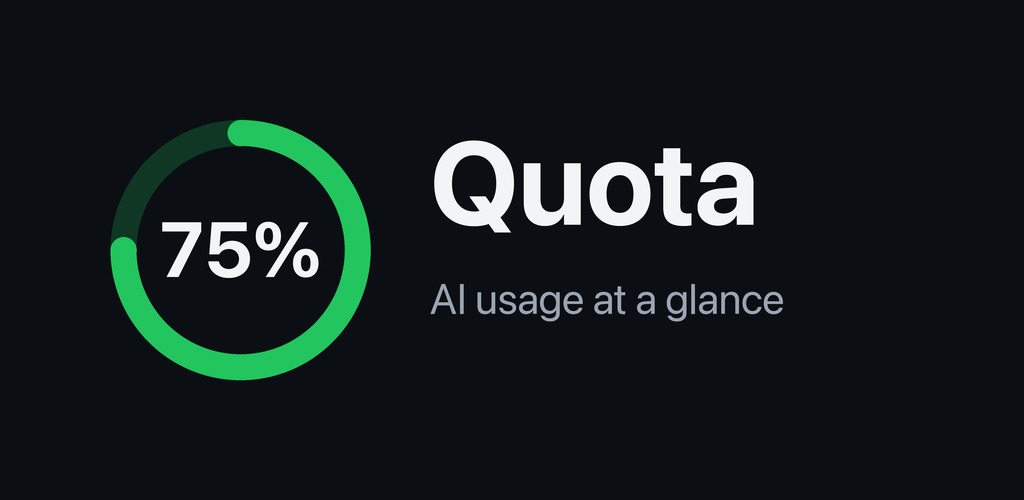
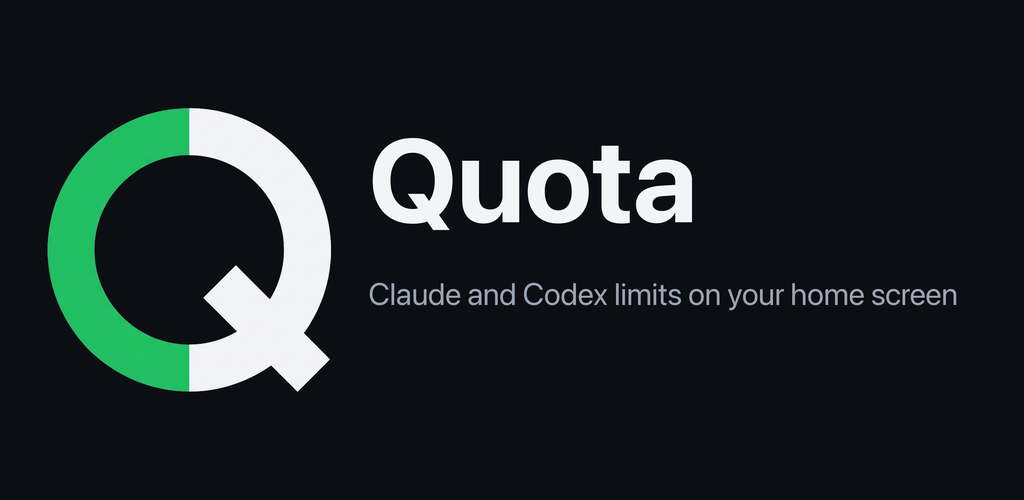
feat(android): the feature graphic carries the battery-Q, not the old ring
The icon became the battery-Q crop in 77a5694, but `feature_graphic()` kept drawing its
own three-quarter ring with a "75%" in it — a second, slightly different mark, which is
the one thing this script's own docstring forbids. The store page showed one Q and the
launcher another.

It now composites the same `mark()` crop every other asset uses, so `ring()`, `mix()`,
`_rgb()` and the sweep constants are gone with it; nothing in this file draws a Q any
more. The tagline says what `short-description.txt` says, "Claude and Codex limits on
your home screen", and its size is fitted to the column rather than guessed — the first
attempt guessed and ran the sentence off the right edge of the canvas.

Regenerated: `icon.png` and every `mipmap-*` output came back byte-identical, which is
the crop-and-scale promise holding. Only the 1024 x 500 changed.

Changed region(s): [[0.0312, 0.21, 0.9375, 0.78]]

diff --git a/android/scripts/generate-play-assets.py b/android/scripts/generate-play-assets.py
@@ -9,12 +9,13 @@ one thing this script must never do is produce a *second*, slightly different Q.
 
     python3 android/scripts/generate-play-assets.py
 
-The feature graphic is still drawn here, at 4x then downsampled: Pillow has no
-antialiased arc.
+The feature graphic is the same crop again — mark, wordmark, tagline — composed at 4x and
+downsampled, because Pillow's text is only as smooth as the size it is drawn at. It used
+to draw its own three-quarter ring, which is precisely the second Q this file forbids:
+the store page showed one mark and the launcher another.
 """
 from __future__ import annotations
 
-import math
 from pathlib import Path
 
 from PIL import Image, ImageDraw, ImageFont
@@ -25,29 +26,10 @@ RES = ROOT / "app/src/main/res"
 SOURCE = ROOT.parent / "docs/brand/icon-candidates/01-battery-q.png"
 
 BG = "#0B0F14"          # background dark
-OK = "#22C55E"          # severity ok — the ring value
 TEXT = "#F3F4F6"        # text primary dark
 MUTED = "#9AA4B2"       # text secondary dark
 
 SS = 4                  # supersampling factor
-SWEEP = 0.75            # three quarters full, like a healthy quota
-START_DEG = -90.0       # 12 o'clock
-
-
-def _rgb(h: str) -> tuple[int, int, int]:
-    return tuple(int(h[i:i + 2], 16) for i in (1, 3, 5))  # type: ignore[return-value]
-
-
-def mix(bg: str, fg: str, t: float) -> tuple[int, int, int]:
-    """`fg` at `t` opacity over opaque `bg`, composited by hand.
-
-    Pillow does NOT blend the `outline=` of `ellipse`/`arc` even on an "RGBA" draw: an
-    RGBA outline lands at full opacity. The first draft passed the 15 % track as an alpha
-    tuple and got a track pixel-identical to the value arc, so the mark read as a plain
-    "O" instead of a gauge. Compositing here keeps it deterministic.
-    """
-    b, f = _rgb(bg), _rgb(fg)
-    return tuple(round(b[i] + (f[i] - b[i]) * t) for i in range(3))  # type: ignore[return-value]
 
 
 def _font(size: int, bold: bool = True) -> ImageFont.FreeTypeFont:
@@ -66,28 +48,6 @@ def _font(size: int, bold: bool = True) -> ImageFont.FreeTypeFont:
                 pass
         return f
     return ImageFont.load_default()
-
-
-def ring(draw: ImageDraw.ImageDraw, cx: float, cy: float, rc: float,
-         stroke: float, colour: str, sweep: float = SWEEP,
-         track: tuple[int, int, int] | None = None) -> None:
-    """A ring with a track and a round-capped value arc (the DESIGN.md gauge).
-
-    `rc` is the radius of the stroke *centreline*. Pillow draws `arc`/`ellipse` inward
-    from the bounding box, so the box has to be inflated by half the stroke — and the
-    caps have to sit on `rc`, not on the box. Getting that wrong puts two blobs outside
-    the ring, which is exactly what the first draft of this mark did.
-    """
-    h = stroke / 2.0
-    box = (cx - rc - h, cy - rc - h, cx + rc + h, cy + rc + h)
-    draw.ellipse(box, outline=track or mix(BG, colour, 0.22), width=int(round(stroke)))
-    end = START_DEG + 360.0 * sweep
-    draw.arc(box, START_DEG, end, fill=colour, width=int(round(stroke)))
-    # Round caps: Pillow's arc is butt-capped, so cap it by hand, on the centreline.
-    for deg in (START_DEG, end):
-        a = math.radians(deg)
-        px, py = cx + rc * math.cos(a), cy + rc * math.sin(a)
-        draw.ellipse((px - h, py - h, px + h, py + h), fill=colour)
 
 
 # Luminance window that separates the mark from its near-black field. The generated PNG
@@ -153,31 +113,42 @@ def icon(size: int, bg: str | None = BG, safe_ratio: float = SAFE_RATIO) -> Imag
     return out
 
 
+TAGLINE = "Claude and Codex limits on your home screen"
+
+
 def feature_graphic(w: int = 1024, h: int = 500) -> Image.Image:
+    """Mark at left, wordmark and one-line tagline to its right, on the dark field.
+
+    [TAGLINE] says the same thing as `play/listing/en-US/short-description.txt`. It is
+    one line by contract, so the size is *fitted* to the column rather than guessed:
+    the first draft guessed, and the sentence ran off the right edge of the 1024 px
+    canvas — which no amount of looking at the code, as opposed to the picture, catches.
+    """
     W, H = w * SS, h * SS
     img = Image.new("RGBA", (W, H), BG)
     d = ImageDraw.Draw(img, "RGBA")
 
-    # Ring on the left third, wordmark and tagline to its right, on an 8-grid rhythm.
-    stroke = H * 0.052
-    rc = H * 0.26 - stroke / 2
-    cx, cy = W * 0.235, H / 2
-    ring(d, cx, cy, rc, stroke=stroke, colour=OK)
+    # The one Q, from the one source: no arc is drawn here.
+    box = int(round(H * 0.58))
+    glyph = mark(box, safe_ratio=0.98)
+    cx, cy = W * 0.185, H / 2
+    img.alpha_composite(glyph, (int(cx - box / 2), int(cy - box / 2)))
 
-    pct = _font(int(H * 0.155))
-    label = "75%"
-    bb = d.textbbox((0, 0), label, font=pct)
-    d.text((cx - (bb[2] - bb[0]) / 2 - bb[0], cy - (bb[3] - bb[1]) / 2 - bb[1]),
-           label, font=pct, fill=TEXT)
+    x = int(W * 0.36)
+    column = int(W * 0.94) - x          # 6 % of the canvas kept clear on the right
 
-    x = W * 0.42
     word = _font(int(H * 0.235))
     wb = d.textbbox((0, 0), "Quota", font=word)
-    d.text((x - wb[0], cy - (wb[3] - wb[1]) - H * 0.035 - wb[1]),
+    d.text((x - wb[0], cy - (wb[3] - wb[1]) - H * 0.04 - wb[1]),
            "Quota", font=word, fill=TEXT)
 
-    tag = _font(int(H * 0.085), bold=False)
-    d.text((x, cy + H * 0.045), "AI usage at a glance", font=tag, fill=MUTED)
+    size = int(H * 0.088)
+    while size > 8:
+        tag = _font(size, bold=False)
+        if d.textlength(TAGLINE, font=tag) <= column:
+            break
+        size -= 2
+    d.text((x, cy + H * 0.05), TAGLINE, font=tag, fill=MUTED)
 
     return img.resize((w, h), Image.LANCZOS)
 
